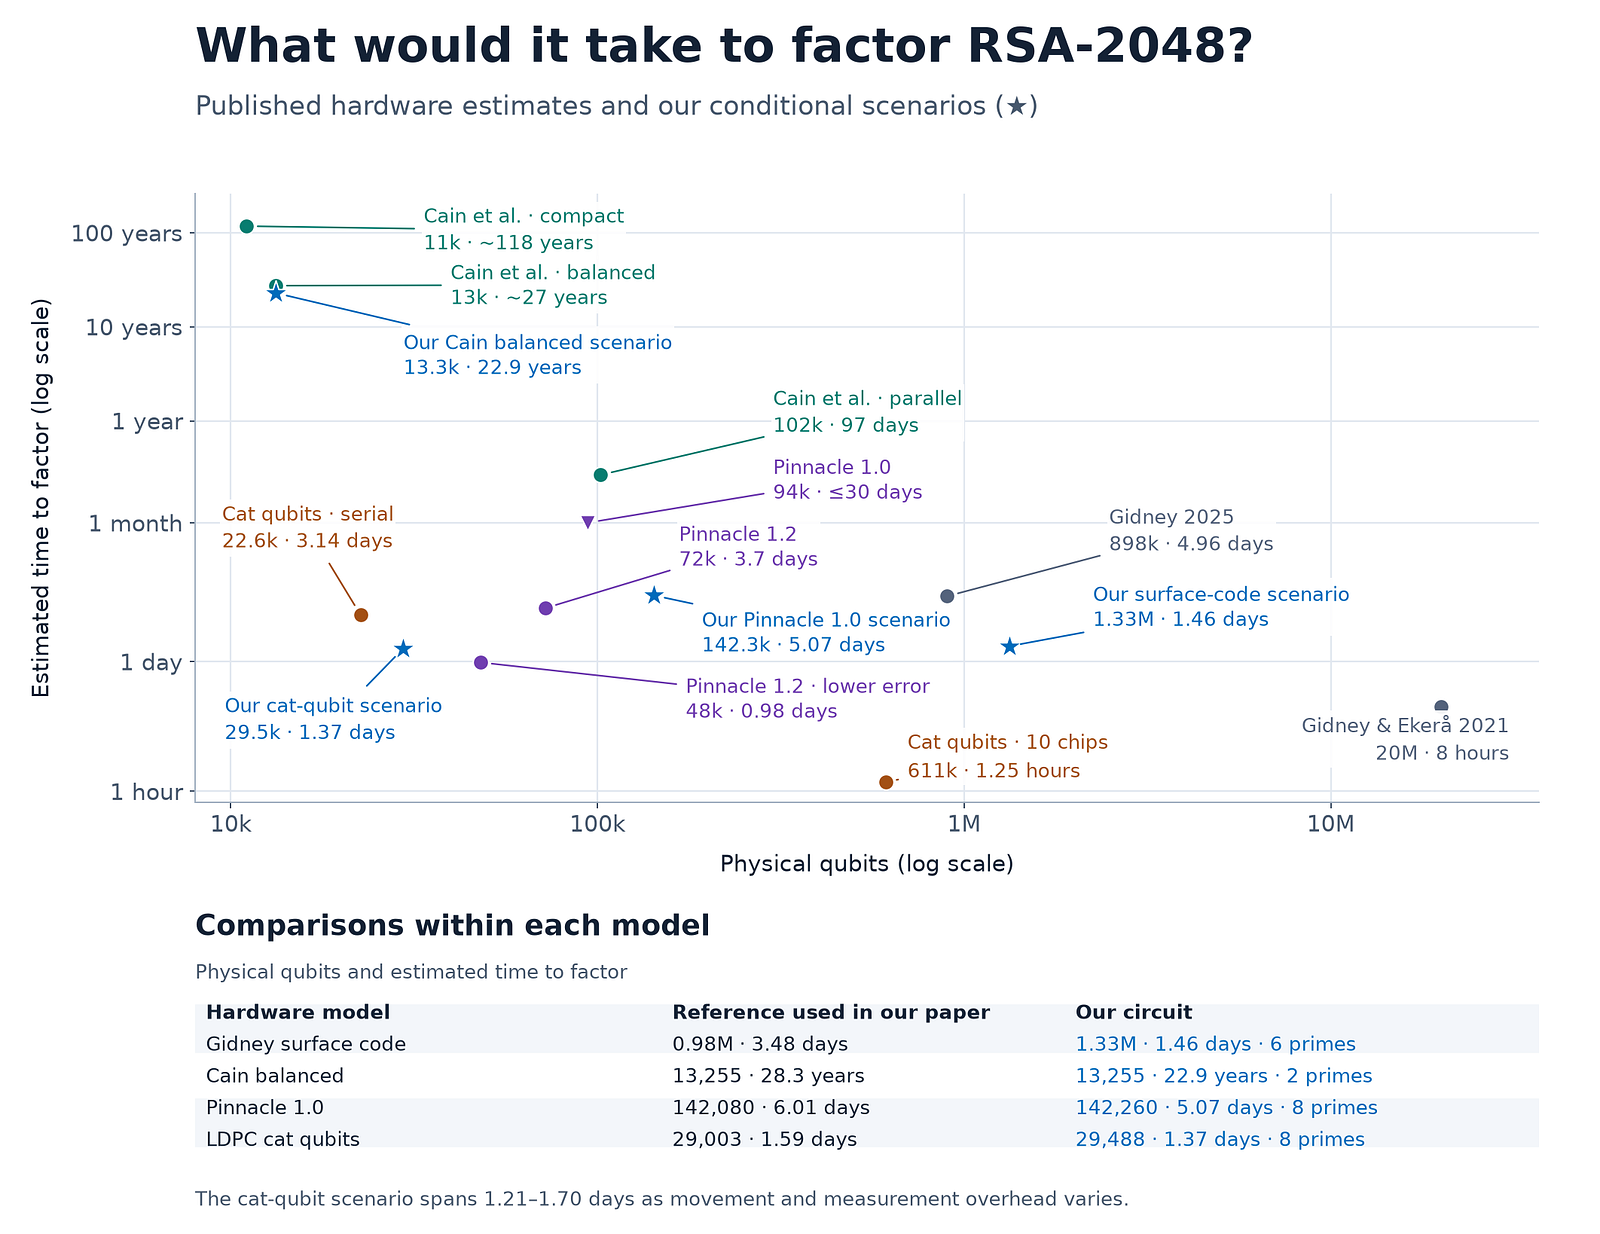
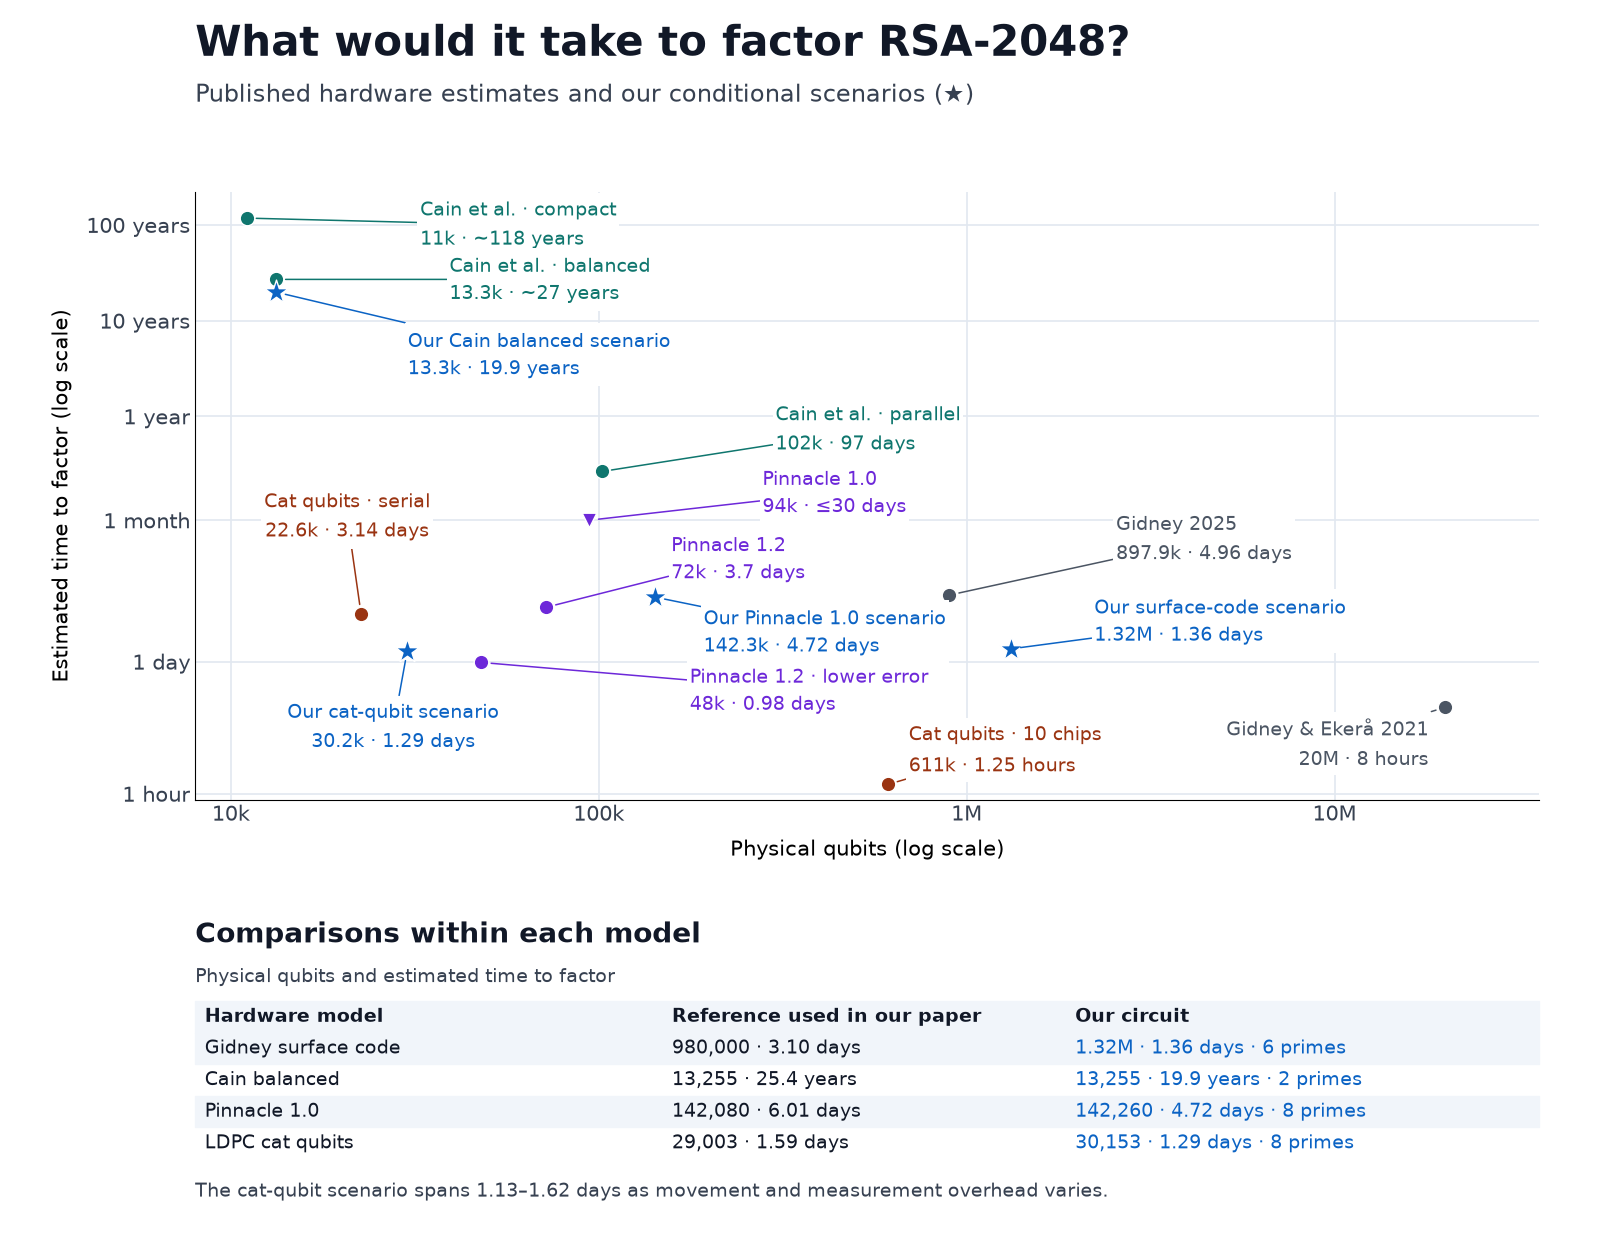
Update Shor project page to the revised paper's numbers and plots

diff --git a/_includes/project-pages/shor-quantum-factoring.html b/_includes/project-pages/shor-quantum-factoring.html
@@ -12,7 +12,7 @@
     <div class="shor-cover-copy">
       <h1>Fewer gates for <span>Shor’s algorithm.</span></h1>
       <p class="shor-intro">Most of Shor’s algorithm is arithmetic. We make that arithmetic cheaper by sharing table lookups and keeping useful intermediate results.</p>
-      <p class="shor-cover-finding">For RSA-2048, this cuts the estimated Toffoli count per factoring by <strong>46%</strong> within a budget of 1,806 logical qubits.</p>
+      <p class="shor-cover-finding">For RSA-2048, this cuts the estimated Toffoli count per factoring by <strong>45%</strong> within a budget of 1,806 logical qubits, and by 16% at 1,461.</p>
       <a class="shor-read-link" href="#logical-resources">Explore the resource estimates <span aria-hidden="true">↘</span></a>
     </div>
     <figure class="shor-cover-diagram">
@@ -52,30 +52,31 @@
   <div class="shor-section-heading"><span class="shor-section-index">01</span><h2 id="shor-arithmetic-title">The arithmetic inside Shor</h2></div>
   <div class="shor-arithmetic-layout">
   <div class="shor-method-copy">
-    <p>Shor finds factors by looking for a repeating pattern in powers taken modulo the RSA number. Computing those powers takes most of the work. In <a class="shor-link" href="https://arxiv.org/abs/2505.15917">Gidney’s low-qubit circuit</a>, lookups and a residue-cleanup stage account for about <strong>85% of the Toffoli gates</strong>.</p>
-    <p>The same input bits select a row in several tables, one for each small prime. We pack their answers into a wider row, so a single lookup returns them together. In a controlled comparison across three primes, sharing alone reduced the estimated Toffoli count by <strong>28.8%</strong>.</p>
+    <p>Shor finds factors by looking for a repeating pattern in powers taken modulo the RSA number. Computing those powers takes most of the work. In <a class="shor-link" href="https://arxiv.org/abs/2505.15917">Gidney’s low-qubit circuit</a>, lookups and a residue-cleanup stage account for about <strong>84% of the Toffoli gates</strong>.</p>
+    <p>The same input bits select a row in several tables, one for each small prime. We pack their answers into a wider row, so a single lookup returns them together. In a controlled comparison across three primes, sharing alone reduced the estimated Toffoli count by <strong>30.7%</strong>.</p>
     <p>We also retain intermediate values to avoid recomputing them during cleanup, and let residues grow before reducing them once at the end. The paper proves that, with sufficiently wide registers, the output and relative quantum phases are preserved.</p>
+    <p>A reader’s suggestion led to one more simplification. Several steps of the residue multiplication act on a register that still holds zero, so their result is fixed by the lookup address alone. Replacing each with a single table write lowers <em>every</em> circuit by 5–14%, the reference included. We apply it to both sides of every comparison, so the savings above are measured against a reference that is cheaper too.</p>
   </div>
   <figure class="shor-gate-share">
     <figcaption><span class="shor-figure-number">Reference circuit</span>Where the Toffolis go</figcaption>
     <dl>
-      <div style="--share:100%"><dt>Initial lookups</dt><dd>55<span>%</span></dd></div>
-      <div style="--share:54.55%"><dt>Residue cleanup</dt><dd>30<span>%</span></dd></div>
-      <div style="--share:27.27%"><dt>Other operations</dt><dd>15<span>%</span></dd></div>
+      <div style="--share:100%"><dt>Initial lookups</dt><dd>61<span>%</span></dd></div>
+      <div style="--share:37.7%"><dt>Residue cleanup</dt><dd>23<span>%</span></dd></div>
+      <div style="--share:26.23%"><dt>Other operations</dt><dd>16<span>%</span></dd></div>
     </dl>
-    <p>Published RSA-2048 parameters. The first two stages are the target of this work.</p>
+    <p>Published RSA-2048 parameters, with the address-determined simplifications. The first two stages are the target of this work.</p>
   </figure>
   </div>
 </section>
 
 <section class="shor-section" id="logical-resources" aria-labelledby="shor-resources-title">
   <div class="shor-section-heading"><span class="shor-section-index">02</span><h2 id="shor-resources-title">What changes at the same qubit budget?</h2></div>
-  <p class="shor-section-lede">We searched 534,240 settings of Gidney’s cost model and used the cheapest reference circuit that fit each budget. The savings below count the expected repeat runs needed to factor one key.</p>
+  <p class="shor-section-lede">We searched 534,240 settings of Gidney’s cost model, with the same simplifications applied, and used the cheapest reference circuit that fit each budget. The savings below count the expected repeat runs needed to factor one key.</p>
   <div class="shor-comparison-wrap">
     <table class="shor-comparison">
       <caption>Expected Toffoli gates per factoring, including repeat runs</caption>
       <thead><tr><th scope="col">Logical qubit budget</th><th scope="col">Best reference</th><th scope="col">This work</th><th scope="col">Reduction</th></tr></thead>
-      <tbody><tr><th scope="row">1,461</th><td>5.98B</td><td>5.08B</td><td>15%</td></tr><tr><th scope="row">1,806</th><td>4.74B</td><td>2.55B</td><td>46%</td></tr></tbody>
+      <tbody><tr><th scope="row">1,461</th><td>5.39B</td><td>4.51B</td><td>16%</td></tr><tr><th scope="row">1,806</th><td>4.31B</td><td>2.37B</td><td>45%</td></tr></tbody>
     </table>
   </div>
   <div class="shor-figure-heading"><h3>The resource landscape</h3><p>Explore qubits, gate counts and projected runtime.</p></div>
@@ -176,7 +177,7 @@
       {% assign logical_overview = shor_assets | append: 'logical-resources.svg' | relative_url %}
       {% assign logical_detail = shor_assets | append: 'logical-resources-detail.svg' | relative_url %}
       <a href="{{ logical_overview }}" target="_blank" rel="noopener"><img src="{{ logical_overview }}" width="612" height="432" alt="Log-scale scatter plot of logical qubits and T equivalents per execution, from early Shor circuits through the new candidates."></a>
-      <a href="{{ logical_detail }}" target="_blank" rel="noopener"><img src="{{ logical_detail }}" width="432" height="432" alt="Detail of recent residue circuits. The eight-prime candidate uses 1,806 logical qubits and 1.12 billion T equivalents per execution."></a>
+      <a href="{{ logical_detail }}" target="_blank" rel="noopener"><img src="{{ logical_detail }}" width="432" height="432" alt="Detail of recent residue circuits. The eight-prime candidate uses 1,806 logical qubits and 1.04 billion T equivalents per execution."></a>
     </div>
     <figcaption>
       <p data-logical-caption>Gate counts are per circuit execution, before error correction and repeat runs. T equivalents use four T gates per Toffoli.</p>
@@ -212,18 +213,18 @@
   <div class="shor-section-heading"><span class="shor-section-index">03</span><h2 id="shor-hardware-title">Fewer gates, but how much faster?</h2></div>
   <p class="shor-section-lede">A quantum computer also has to move data, correct errors, and supply resources for gates. Sharing a lookup reduces the gate count but makes its output wider. How much time that saves depends on what the machine can handle efficiently.</p>
   <div class="shor-runtime-summary">
-    <div><h3>Surface code · Faster with more qubits</h3><p>In our model, the six-prime circuit takes <strong>1.46 days</strong> at 1.33 million physical qubits. The reference takes <strong>3.48 days</strong> at 980,000 qubits.</p></div>
-    <div><h3>Neutral atoms · Faster within the same footprint</h3><p>In the balanced model, the two-prime circuit takes <strong>22.9 years</strong> versus <strong>28.3 years</strong> at 13,255 atoms. The modeled runtime is still measured in decades.</p></div>
+    <div><h3>Surface code · Faster with more qubits</h3><p>In our model, the six-prime circuit takes <strong>1.36 days</strong> at 1.32 million physical qubits. The reference takes <strong>3.10 days</strong> at 980,000 qubits.</p></div>
+    <div><h3>Neutral atoms · Faster within the same footprint</h3><p>In the balanced model, the two-prime circuit takes <strong>19.9 years</strong> versus <strong>25.4 years</strong> at 13,255 atoms. The modeled runtime is still measured in decades.</p></div>
   </div>
   <p class="shor-chart-intro">These are hardware projections. <a class="shor-link" href="?view=runtime#logical-resources">Compare the runtime estimates ↑</a></p>
   <figure class="project-media shor-hardware">
     <a class="media-link" href="{{ hardware_figure }}" target="_blank" rel="noopener">
-      <img src="{{ hardware_figure }}" width="1600" height="1234" loading="lazy" decoding="async" alt="RSA-2048 runtime versus physical qubits. Four blue stars show our surface-code, neutral-atom, Pinnacle 1.0 and cat-qubit estimates. The table pairs each with its reference.">
+      <img src="{{ hardware_figure }}" width="1600" height="1240" loading="lazy" decoding="async" alt="RSA-2048 runtime versus physical qubits. Four blue stars show our surface-code (1.36 days), neutral-atom (19.9 years), Pinnacle 1.0 (4.72 days) and cat-qubit (1.29 days) estimates. The table pairs each with its reference.">
       <span class="media-zoom" aria-hidden="true">Open figure ↗</span>
     </a>
     <figcaption>
       <h3>What would it take to factor RSA-2048?</h3>
-      <p>The first figure from <a class="shor-link" href="{{ shor_blog.url | escape }}" target="_blank" rel="noopener">our companion article</a>. Stars show conditional hardware projections, and the table compares each scenario with its own reference. For cat qubits, varying the assumed overhead gives 1.21–1.70 days, a range that includes the 1.59-day reference.</p>
+      <p>Updated from the first figure of <a class="shor-link" href="{{ shor_blog.url | escape }}" target="_blank" rel="noopener">our companion article</a>. Stars show conditional hardware projections, and the table compares each scenario with its own reference. For cat qubits, varying the assumed overhead gives 1.13–1.62 days, a range that includes the 1.59-day reference.</p>
       <p class="shor-reference-links"><a href="https://quantum-journal.org/papers/q-2021-04-15-433/">Gidney &amp; Ekerå</a> · <a href="https://arxiv.org/abs/2505.15917">Gidney</a> · <a href="https://arxiv.org/abs/2603.28627">Cain et al.</a> · <a href="https://arxiv.org/abs/2602.11457">Pinnacle 1.0</a> · <a href="https://www.iceberg-quantum.com/blog/releases/pinnacle-1-2/">Pinnacle 1.2</a> · <a href="https://arxiv.org/abs/2610.37839">Pappalardo et al.</a></p>
     </figcaption>
   </figure>

diff --git a/scripts/build-shor-hardware-figure.py b/scripts/build-shor-hardware-figure.py
@@ -1,0 +1,125 @@
+"""Render the RSA-2048 hardware landscape figure from the site's runtime data."""
+
+from pathlib import Path
+
+import matplotlib
+import yaml
+
+matplotlib.use("Agg")
+import matplotlib.pyplot as plt
+from matplotlib.ticker import FixedLocator, NullLocator
+
+SITE = Path(__file__).resolve().parents[1]
+OUT = SITE / "assets/imgs/shor/hardware-landscape.png"
+ROWS = yaml.safe_load((SITE / "_data/shor_runtime_estimates.yml").read_text())
+
+INK = "#111827"
+MUTED = "#374151"
+GRID = "#e2e8f0"
+OURS = "#0b63c4"
+COLORS = {
+    "Surface code": "#4b5563",
+    "Neutral atoms": "#0f766e",
+    "Pinnacle": "#6d28d9",
+    "Cat qubits": "#9a3412",
+}
+
+# Short plot labels and label offsets (points) keyed by the data name.
+LABELS = {
+    "Gidney & Ekerå (2021)": ("Gidney & Ekerå 2021", (-12, -26), "right"),
+    "Gidney (2025)": ("Gidney 2025", (120, 40), "left"),
+    "Cain et al. · space-efficient": ("Cain et al. · compact", (125, -5), "left"),
+    "Cain et al. · balanced": ("Cain et al. · balanced", (125, 0), "left"),
+    "Cain et al. · parallel": ("Cain et al. · parallel", (125, 30), "left"),
+    "Pinnacle 1.0 · one-month budget": ("Pinnacle 1.0", (125, 20), "left"),
+    "Pinnacle 1.2 · standard error": ("Pinnacle 1.2", (90, 35), "left"),
+    "Pinnacle 1.2 · lower error": ("Pinnacle 1.2 · lower error", (150, -20), "left"),
+    "Pappalardo et al. · serial": ("Cat qubits · serial", (-10, 70), "center"),
+    "Pappalardo et al. · ten chips": ("Cat qubits · 10 chips", (15, 25), "left"),
+    "This work · surface-code scenario": ("Our surface-code scenario", (60, 20), "left"),
+    "This work · balanced neutral atoms": ("Our Cain balanced scenario", (95, -45), "left"),
+    "This work · Pinnacle 1.0 scenario": ("Our Pinnacle 1.0 scenario", (35, -25), "left"),
+    "This work · cat-qubit scenario": ("Our cat-qubit scenario", (-10, -55), "center"),
+}
+TABLE = [
+    ("Gidney surface code", "This work · surface-code scenario", "6 primes"),
+    ("Cain balanced", "This work · balanced neutral atoms", "2 primes"),
+    ("Pinnacle 1.0", "This work · Pinnacle 1.0 scenario", "8 primes"),
+    ("LDPC cat qubits", "This work · cat-qubit scenario", "8 primes"),
+]
+
+plt.rcParams.update({"font.family": "DejaVu Sans", "font.size": 11})
+
+
+def qubits(n, exact=False):
+    if exact and n < 1e6:
+        return f"{n:,.0f}"
+    if n >= 1e6:
+        return f"{n / 1e6:.2f}".rstrip("0").rstrip(".") + "M"
+    return f"{n / 1e3:.1f}".rstrip("0").rstrip(".") + "k"
+
+
+def years_or_days(days):
+    return f"{days / 365.25:.1f} years" if days >= 365 else f"{days:.2f} days"
+
+
+by_name = {row["name"]: row for row in ROWS}
+fig = plt.figure(figsize=(16, 12.4), dpi=100, facecolor="white")
+fig.text(0.122, 0.955, "What would it take to factor RSA-2048?", fontsize=30, weight="bold", color=INK)
+fig.text(0.122, 0.918, "Published hardware estimates and our conditional scenarios (★)", fontsize=17, color=MUTED)
+ax = fig.add_axes([0.122, 0.355, 0.84, 0.49])
+ax.set(xscale="log", yscale="log", xlim=(8000, 3.6e7), ylim=(0.036, 220 * 365.25))
+ax.xaxis.set_major_locator(FixedLocator([1e4, 1e5, 1e6, 1e7]))
+ax.xaxis.set_major_formatter(lambda v, _: {1e4: "10k", 1e5: "100k", 1e6: "1M", 1e7: "10M"}[v])
+ticks = {1 / 24: "1 hour", 1: "1 day", 30: "1 month", 365.25: "1 year", 3652.5: "10 years", 36525: "100 years"}
+ax.yaxis.set_major_locator(FixedLocator(list(ticks)))
+ax.yaxis.set_major_formatter(lambda v, _: ticks.get(v, ""))
+for axis in (ax.xaxis, ax.yaxis):
+    axis.set_minor_locator(NullLocator())
+ax.grid(color=GRID, linewidth=1.2)
+ax.set_axisbelow(True)
+ax.tick_params(labelsize=15, colors=MUTED, length=0)
+for name in ("top", "right"):
+    ax.spines[name].set_visible(False)
+ax.set_xlabel("Physical qubits (log scale)", fontsize=15, labelpad=10)
+ax.set_ylabel("Estimated time to factor (log scale)", fontsize=15, labelpad=10)
+
+for row in ROWS:
+    ours = row.get("ours", False)
+    color = OURS if ours else COLORS[row["architecture"]]
+    point = (row["qubits"], row["time_days"])
+    marker = "*" if ours else ("v" if "≤" in row["time_label"] else "o")
+    ax.scatter(*point, s=320 if ours else 110, marker=marker, color=color,
+               edgecolors="white", linewidths=1, zorder=4)
+    label, offset, ha = LABELS[row["name"]]
+    ax.annotate(f"{label}\n{qubits(row['qubits'])} · {row['time_label']}", point,
+                xytext=offset, textcoords="offset points", ha=ha, va="center",
+                fontsize=14, color=color, linespacing=1.5,
+                arrowprops={"arrowstyle": "-", "color": color, "lw": 1.1, "shrinkA": 0, "shrinkB": 7},
+                bbox={"facecolor": "white", "edgecolor": "none", "pad": 2}, zorder=5)
+
+fig.text(0.122, 0.24, "Comparisons within each model", fontsize=20, weight="bold", color=INK)
+fig.text(0.122, 0.208, "Physical qubits and estimated time to factor", fontsize=14, color=MUTED)
+columns = (0.128, 0.42, 0.672)
+top, step = 0.18, 0.0255
+for i, header in enumerate(("Hardware model", "Reference used in our paper", "Our circuit")):
+    fig.text(columns[i], top, header, fontsize=14, weight="bold", color=INK, va="center")
+for r, (model, name, primes) in enumerate(TABLE):
+    row = by_name[name]
+    y = top - (r + 1) * step
+    if r % 2 == 0:
+        fig.patches.append(plt.Rectangle((0.122, y - step / 2), 0.84, step, transform=fig.transFigure,
+                                         color="#f1f5fa", zorder=0))
+    ref = row["reference"]
+    fig.text(columns[0], y, model, fontsize=14, color=INK, va="center")
+    fig.text(columns[1], y, f"{qubits(ref['qubits'], True)} · {years_or_days(ref['time_days'])}",
+             fontsize=14, color=INK, va="center")
+    fig.text(columns[2], y, f"{qubits(row['qubits'], True)} · {row['time_label']} · {primes}",
+             fontsize=14, color=OURS, va="center")
+fig.patches.append(plt.Rectangle((0.122, top - step / 2), 0.84, step, transform=fig.transFigure,
+                                 color="#f1f5fa", zorder=0))
+low, high = by_name["This work · cat-qubit scenario"]["time_range_days"]
+fig.text(0.122, 0.035, f"The cat-qubit scenario spans {low:.2f}–{high:.2f} days as movement and measurement overhead varies.",
+         fontsize=14, color=MUTED)
+fig.savefig(OUT, dpi=100, facecolor="white", metadata={"Software": None})
+print(OUT)
